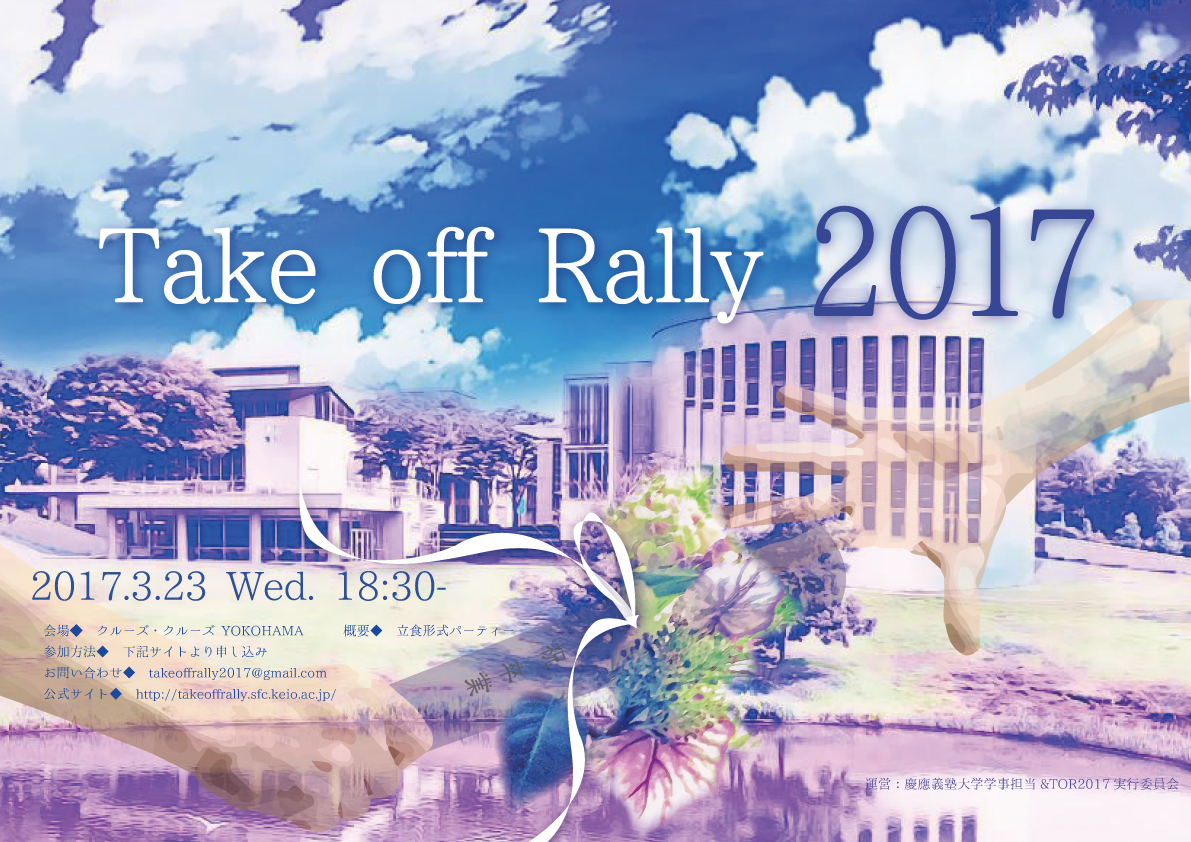
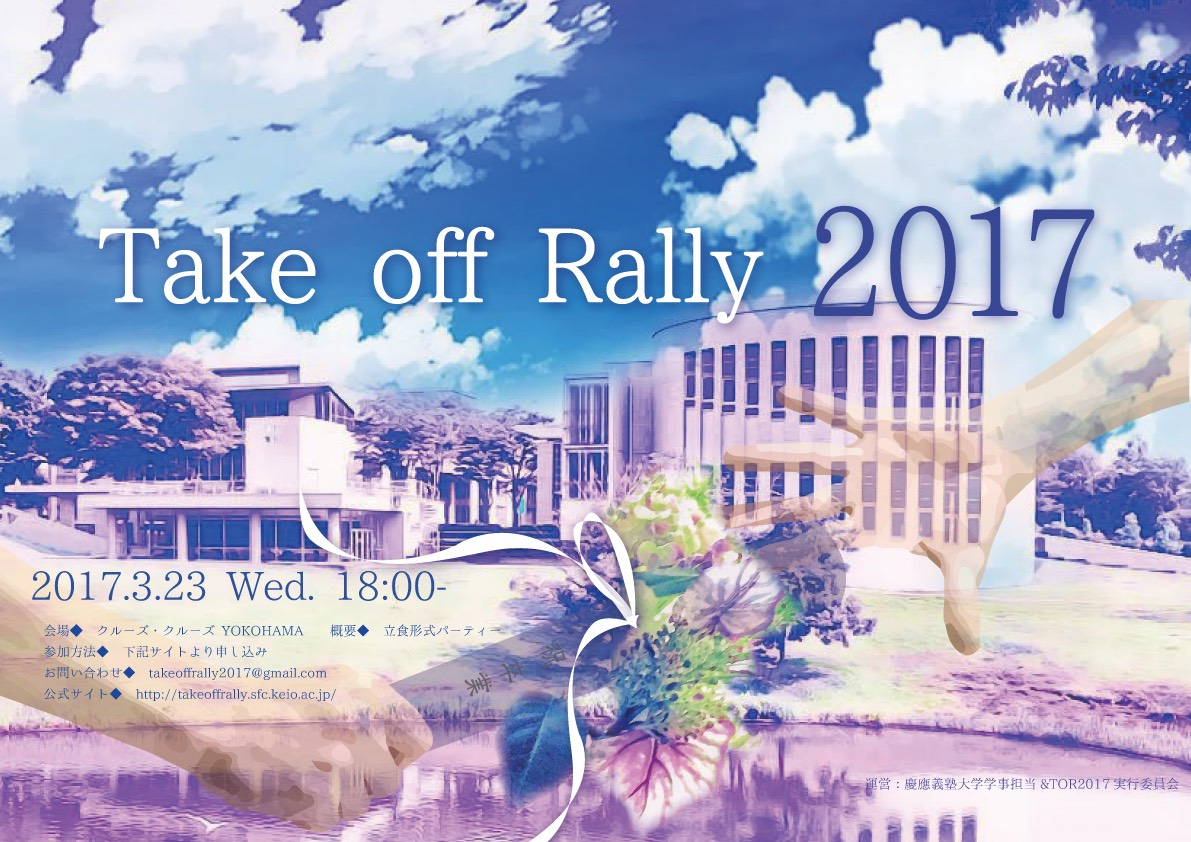
日時編集

diff --git a/index.php b/index.php
@@ -64,7 +64,7 @@
       <h2>開催概要</h2>
       <table class="mx-auto col-10 sm-col-5" border="1" bordercolor="white">
         <tr>
-            <th>日時</th><td>2017年3月23日(水)18:30~</td>
+            <th>日時</th><td>2017年3月23日(水)18:00~</td>
         </th>
         <tr>
             <th>会場</th><td>クルーズ・クルーズ YOKOHAMA(スカイビル27階)</td>
